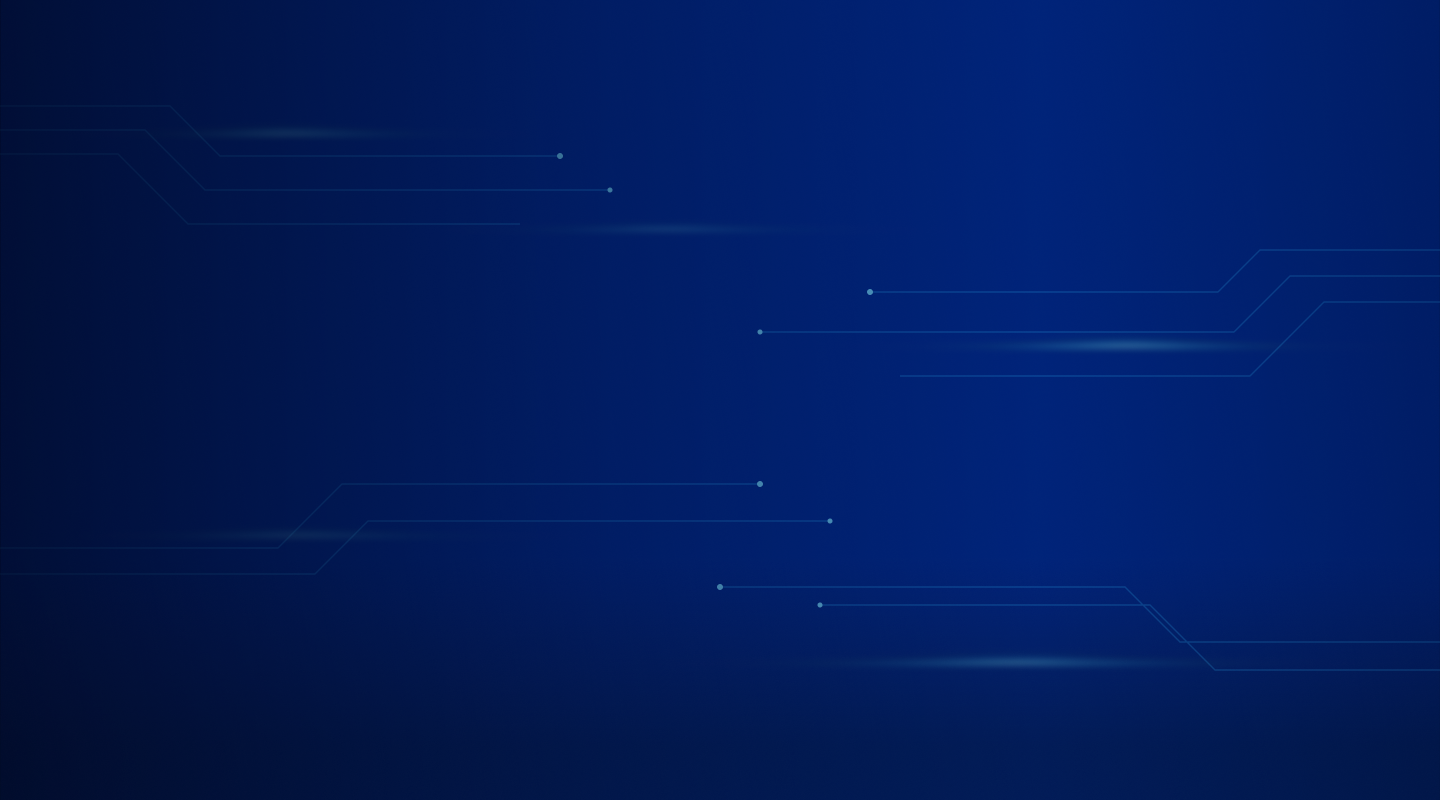
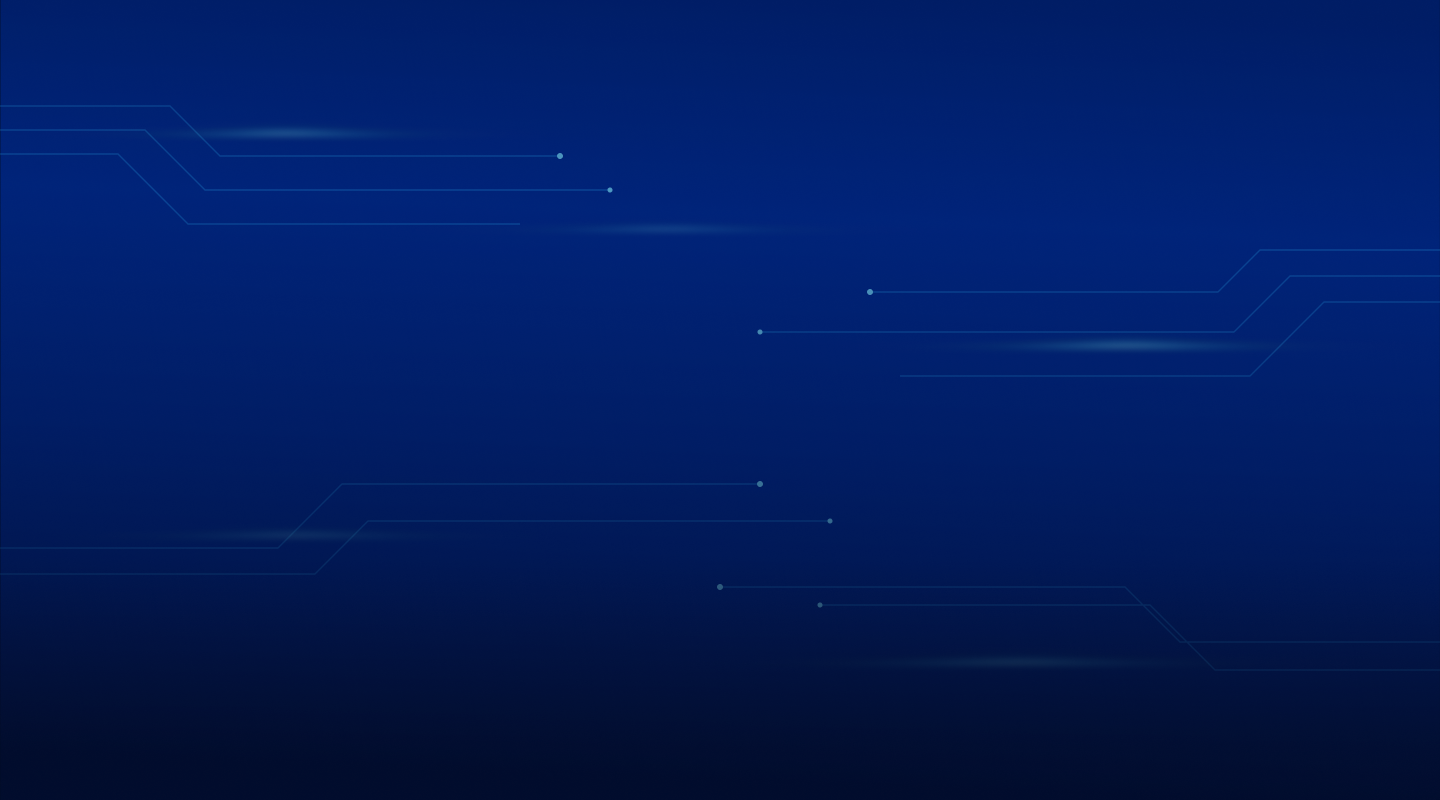
update UI 4 section

diff --git a/src/components/landing/ServiceModel.tsx b/src/components/landing/ServiceModel.tsx
@@ -1,6 +1,10 @@
+"use client";
+
 import Image from "next/image";
-import { getTranslations } from "next-intl/server";
+import { useTranslations } from "next-intl";
 import MobileCardCarousel from "@/components/landing/MobileCardCarousel";
+import MasterButton from "@/components/ui/master-button";
+import SectionEdgeFade from "@/components/ui/section-edge-fade";
 
 // Same mask/xor ring technique as Heart.tsx — border-image ignores border-radius
 // on its corner tiles, which is wrong for a rounded card.
@@ -22,6 +26,7 @@ type ServiceCardData = {
   badgeBorder: string;
   footerType: FooterType;
   price?: string;
+  hoverBorderColor: string;
 };
 
 function ServiceCardFooter({
@@ -107,8 +112,11 @@ function ServiceCard({
           }}
         />
       </div>
-      {/* Hover state: solid glass card with a solid blue border */}
-      <div className="absolute inset-0 rounded-[20px] border-2 border-[#2A9FFF] bg-[#FFFFFF66] opacity-0 transition-opacity duration-300 group-hover:opacity-100" />
+      {/* Hover state: same glass background, only the border color switches to the card's own color */}
+      <div
+        className="absolute inset-0 rounded-[20px] border-2 opacity-0 transition-opacity duration-300 group-hover:opacity-100"
+        style={{ borderColor: card.hoverBorderColor }}
+      />
 
       {/* Badge — top-right corner */}
       <div
@@ -163,8 +171,8 @@ function ServiceCard({
   );
 }
 
-export default async function ServiceModel() {
-  const t = await getTranslations("serviceModel");
+export default function ServiceModel() {
+  const t = useTranslations("serviceModel");
 
   const CARDS: ServiceCardData[] = [
     {
@@ -180,6 +188,7 @@ export default async function ServiceModel() {
       badgeBorder: "#2ED1FF5C",
       footerType: "price",
       price: "3.990.000",
+      hoverBorderColor: "#2A9FFF",
     },
     {
       key: "saas",
@@ -194,6 +203,7 @@ export default async function ServiceModel() {
       badgeBorder: "#708CFF5C",
       footerType: "price",
       price: "2.990.000",
+      hoverBorderColor: "#708CFFCC",
     },
     {
       key: "caas",
@@ -207,6 +217,7 @@ export default async function ServiceModel() {
       badgeBg: "#052140D1",
       badgeBorder: "#61DBED5C",
       footerType: "kwh",
+      hoverBorderColor: "#61DBEDCC",
     },
     {
       key: "aaas",
@@ -220,6 +231,7 @@ export default async function ServiceModel() {
       badgeBg: "#1A0F38D1",
       badgeBorder: "#A366FF5C",
       footerType: "contact",
+      hoverBorderColor: "#A366FFCC",
     },
   ];
 
@@ -228,6 +240,9 @@ export default async function ServiceModel() {
       className="relative w-full overflow-hidden bg-cover bg-center bg-no-repeat py-10 lg:h-[900px] lg:py-0"
       style={{ backgroundImage: "url('/landing/ServiceModel/Service_bg.png')" }}
     >
+      <SectionEdgeFade position="top" />
+      <SectionEdgeFade position="bottom" />
+
       <div className="container-le flex h-full flex-col lg:pt-[60px] lg:pb-[50px]">
         <span
           className="font-inter mb-4 text-[12px] font-bold uppercase leading-[16px] tracking-[2.2px] text-[#63D9FF] [text-shadow:0px_0px_6px_rgba(99,217,255,0.18)]"
@@ -288,18 +303,7 @@ export default async function ServiceModel() {
             </p>
           </div>
 
-          <button
-            type="button"
-            className="flex h-[58px] w-full items-center justify-center gap-2 rounded-xl border border-[#4FDBFFB8] shadow-[0px_8px_22px_0px_#1AA1FF42] transition-all duration-300 hover:-translate-y-1 hover:opacity-80 lg:w-[308px]"
-            style={{
-              background: "linear-gradient(90deg, #088CFF 0%, #1A6BED 58%, #3D5CDB 100%)",
-            }}
-          >
-            <span className="font-inter text-[16px] font-bold leading-[22px] text-white">{t("cta")}</span>
-            <svg width="18" height="18" viewBox="0 0 24 24" fill="none" xmlns="http://www.w3.org/2000/svg">
-              <path d="M5 12h14M13 5l7 7-7 7" stroke="white" strokeWidth="2" strokeLinecap="round" strokeLinejoin="round" />
-            </svg>
-          </button>
+          <MasterButton type="full-fill" isShowIcon content={t("cta")} onClick={() => {}} />
         </div>
       </div>
     </section>

diff --git a/src/components/landing/Hero.tsx b/src/components/landing/Hero.tsx
@@ -1,6 +1,9 @@
+"use client";
+
 import Image from "next/image";
-import Link from "next/link";
-import { getTranslations } from "next-intl/server";
+import { useTranslations } from "next-intl";
+import MasterButton from "@/components/ui/master-button";
+import SectionEdgeFade from "@/components/ui/section-edge-fade";
 
 // Design reference box matching the native size of Pillars_items.png (the 6-hexagon
 // cluster + connecting orbit lines, 613x633px), so every % below preserves true
@@ -20,22 +23,8 @@ const CORE_SIZE = (RING_WRAPPER_SIZE * 120) / 315;
 const CIRCLE_CENTER_OFFSET_X = -0.75;
 const CIRCLE_CENTER_OFFSET_Y = -7.25;
 
-function ArrowIcon() {
-  return (
-    <svg
-      className="h-4 w-4 shrink-0"
-      fill="none"
-      viewBox="0 0 24 24"
-      stroke="currentColor"
-      strokeWidth={2.5}
-    >
-      <path strokeLinecap="round" strokeLinejoin="round" d="M14 5l7 7m0 0l-7 7m7-7H3" />
-    </svg>
-  );
-}
-
-export default async function Hero() {
-  const t = await getTranslations("hero");
+export default function Hero() {
+  const t = useTranslations("hero");
   const features = t.raw("features") as string[];
 
   return (
@@ -43,6 +32,8 @@ export default async function Hero() {
       className="relative flex min-h-[600px] items-center overflow-hidden bg-cover bg-center bg-no-repeat pt-[calc(var(--header-height-mobile)+20px)] lg:h-[800px] lg:pt-0"
       style={{ backgroundImage: "url('/landing/Hero/Hero_bg.png')" }}
     >
+      <SectionEdgeFade position="bottom" />
+
       <div className="container-le relative z-10 flex w-full flex-col items-center gap-16 py-16 lg:grid lg:grid-cols-2 lg:items-center lg:gap-10 lg:py-0">
         {/* Left content */}
         <div className="flex flex-col items-center text-center lg:items-start lg:text-left">
@@ -76,20 +67,8 @@ export default async function Hero() {
           </div>
 
           <div className="mt-10 flex w-full flex-col items-center gap-4 lg:w-auto lg:flex-row lg:justify-start">
-            <Link
-              href="#"
-              className="flex h-[50px] w-full items-center justify-center gap-4 whitespace-nowrap rounded-[10px] bg-[#2A9FFF] pb-[15px] pl-6 pr-5 pt-[15px] font-inter text-[14px] font-bold leading-[20px] text-white shadow-[0px_12px_34px_0px_rgba(90,160,255,0.4)] transition-all duration-300 hover:-translate-y-1 hover:text-white! hover:opacity-80 lg:w-[214px]"
-            >
-              {t("ctaPrimary")}
-              <ArrowIcon />
-            </Link>
-            <Link
-              href="#"
-              className="flex h-[50px] w-full items-center justify-center gap-4 whitespace-nowrap rounded-[10px] border border-[#2A9FFF] bg-transparent pb-[15px] pl-6 pr-5 pt-[15px] font-inter text-[14px] font-bold leading-[20px] text-white shadow-[0px_12px_34px_0px_rgba(90,160,255,0.4)] transition-all duration-300 hover:-translate-y-1 hover:text-white! hover:opacity-80 lg:w-[268px]"
-            >
-              {t("ctaSecondary")}
-              <ArrowIcon />
-            </Link>
+            <MasterButton type="full-fill" isShowIcon content={t("ctaPrimary")} onClick={() => {}} />
+            <MasterButton type="out-line" isShowIcon content={t("ctaSecondary")} onClick={() => {}} />
           </div>
         </div>
 

diff --git a/src/components/ui/master-button.tsx b/src/components/ui/master-button.tsx
@@ -1,0 +1,88 @@
+"use client";
+
+import type { ReactNode } from "react";
+
+type MasterButtonType = "full-fill" | "out-line";
+
+// Shared pill-shaped button styling for the whole site. The gradient ring border on
+// full-fill uses the same mask/xor ::before trick as Heart/ServiceModel's card borders —
+// border-image ignores border-radius on its corner tiles, which breaks on a pill shape.
+const MASTER_BUTTON_CSS = `
+.master-button {
+  position: relative;
+  overflow: hidden;
+}
+
+.master-button--full-fill {
+  border: 1px solid transparent;
+  background: linear-gradient(180deg, #76C6FF 0%, #2A75F3 100%);
+  box-shadow:
+    0 1px 10px 0 rgba(0, 0, 0, 0.15),
+    0 -3px 0 0 rgba(30, 154, 255, 0.18) inset,
+    0 -2px 6px 0 rgba(255, 255, 255, 0.75) inset,
+    0 -4px 16px 0 rgba(0, 106, 255, 0.30) inset;
+}
+
+.master-button--full-fill::before {
+  content: "";
+  position: absolute;
+  inset: 0;
+  padding: 1px;
+  border-radius: inherit;
+  background: linear-gradient(180deg, #31B0FF 0%, #81AEF2 100%);
+  -webkit-mask: linear-gradient(#fff 0 0) content-box, linear-gradient(#fff 0 0);
+  -webkit-mask-composite: xor;
+  mask-composite: exclude;
+  pointer-events: none;
+}
+
+.master-button--out-line {
+  background: transparent;
+  border: 1px solid #2A9FFF;
+  box-shadow:
+    0 1px 10px 0 rgba(0, 0, 0, 0.15),
+    0 -3px 0 0 rgba(30, 154, 255, 0.18) inset,
+    0 -2px 6px 0 rgba(255, 255, 255, 0.75) inset,
+    0 -4px 16px 0 rgba(0, 106, 255, 0.30) inset;
+}
+`;
+
+function DefaultArrowIcon() {
+  return (
+    <svg width="18" height="18" viewBox="0 0 24 24" fill="none" className="shrink-0" aria-hidden="true">
+      <path d="M5 12h14M13 5l7 7-7 7" stroke="currentColor" strokeWidth="2" strokeLinecap="round" strokeLinejoin="round" />
+    </svg>
+  );
+}
+
+export default function MasterButton({
+  onClick,
+  content,
+  icon,
+  isShowIcon = false,
+  type = "full-fill",
+  className = "",
+}: {
+  onClick: () => void;
+  content: ReactNode;
+  icon?: ReactNode;
+  isShowIcon?: boolean;
+  type?: MasterButtonType;
+  className?: string;
+}) {
+  const showIcon = Boolean(icon) || isShowIcon;
+
+  return (
+    <>
+      <style>{MASTER_BUTTON_CSS}</style>
+      <button
+        type="button"
+        onClick={onClick}
+        className={`master-button master-button--${type} font-inter inline-flex h-[50px] w-full shrink-0 items-center justify-center gap-[10px] whitespace-nowrap rounded-full px-[13px] py-1 text-[14px] font-bold leading-[20px] text-white transition-all duration-300 hover:-translate-y-1 hover:opacity-80 lg:w-auto lg:min-w-[268px] ${className}`}
+      >
+        {content}
+        {showIcon && (icon ?? <DefaultArrowIcon />)}
+      </button>
+    </>
+  );
+}

diff --git a/src/components/landing/Heart.tsx b/src/components/landing/Heart.tsx
@@ -1,6 +1,7 @@
 import Image from "next/image";
 import { getTranslations } from "next-intl/server";
 import MobileCardCarousel from "@/components/landing/MobileCardCarousel";
+import SectionEdgeFade from "@/components/ui/section-edge-fade";
 
 // Diagonal gradient stroke from the design spec. Painted with the mask/xor ring
 // technique (not border-image) because border-image ignores border-radius on its
@@ -92,6 +93,9 @@ export default async function Heart() {
       className="relative w-full overflow-hidden bg-cover bg-center bg-no-repeat py-10 lg:h-[650px] lg:py-[60px]"
       style={{ backgroundImage: "url('/landing/Heart/Heart_bg.png')" }}
     >
+      <SectionEdgeFade position="top" />
+      <SectionEdgeFade position="bottom" />
+
       <div className="container-le flex h-full flex-col">
         <span className="font-inter text-[12px] font-bold uppercase leading-[18px] tracking-[1.8px] text-[#63D9FF] [text-shadow:0px_0px_6px_rgba(99,217,255,0.18)] lg:mb-4 lg:text-[14px] lg:leading-[20px] lg:tracking-[2.2px]">
           {t("eyebrow")}

diff --git a/src/components/landing/Vision.tsx b/src/components/landing/Vision.tsx
@@ -1,5 +1,6 @@
 import Image from "next/image";
 import { getTranslations } from "next-intl/server";
+import SectionEdgeFade from "@/components/ui/section-edge-fade";
 
 // mission_card.png / vision_card.png ship with a soft drop-shadow bleed baked
 // into their canvas (568x458), so the solid card shape sits well inside the
@@ -77,6 +78,9 @@ export default async function Vision() {
       className="relative w-full overflow-hidden bg-cover bg-center bg-no-repeat pt-10 lg:h-[800px] lg:pt-[60px]"
       style={{ backgroundImage: "url('/landing/Virsion/Vision_bg.png')" }}
     >
+      <SectionEdgeFade position="top" />
+      <SectionEdgeFade position="bottom" />
+
       <div className="container-le flex h-full flex-col items-center">
         <div className="flex flex-col items-center gap-4 text-center lg:gap-6">
           <span className="font-inter text-[12px] font-bold uppercase leading-[18px] tracking-[2.6px] text-[#63D9FF] [text-shadow:0px_0px_6px_rgba(99,217,255,0.18)] lg:text-[14px] lg:leading-[20px] lg:tracking-[3.4px]">

diff --git a/src/components/ui/section-edge-fade.tsx b/src/components/ui/section-edge-fade.tsx
@@ -1,0 +1,21 @@
+type SectionEdgeFadeProps = {
+  position: "top" | "bottom";
+  className?: string;
+};
+
+// Softens the hard seam where two stacked sections meet. Both variants share the
+// exact same gradient (solid navy fading to transparent) — "bottom" is just "top"
+// rotated 180deg, so the solid edge always lands on the actual section boundary
+// while the transparent edge blends into that section's own background/content.
+export default function SectionEdgeFade({ position, className = "" }: SectionEdgeFadeProps) {
+  return (
+    <div
+      aria-hidden="true"
+      className={`pointer-events-none absolute inset-x-0 z-20 h-24 ${position === "top" ? "top-0" : "bottom-0"} ${className}`}
+      style={{
+        background: "linear-gradient(180deg, #010B28 15.62%, rgba(2, 14, 48, 0.6) 50.74%, rgba(13, 27, 75, 0) 100%)",
+        transform: position === "bottom" ? "rotate(180deg)" : undefined,
+      }}
+    />
+  );
+}
